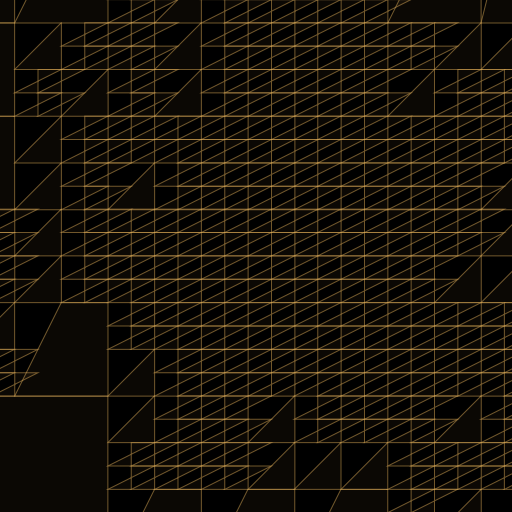
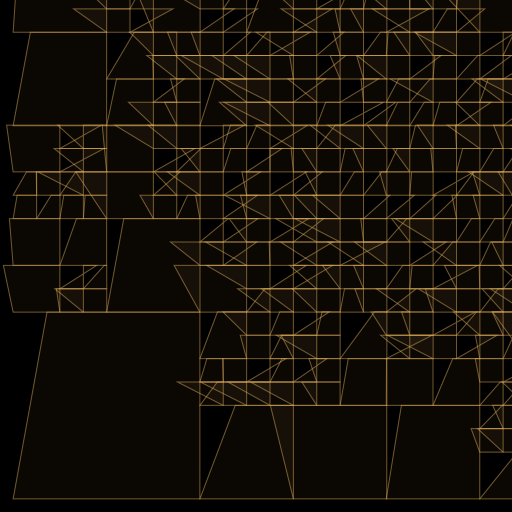
randomizing how much we perturb

diff --git a/lib/perturb-street-grid.ts b/lib/perturb-street-grid.ts
@@ -18,14 +18,25 @@ function perturbStreetGrid(
             },
             shouldPerturbThreshold = 0;
 
+        function getScalingFactor() {
+            return pRNG() * 2 - 1;
+        }
+
         return traverse(featureCollection).map(function(node: any) {
             if (this.key === 'coordinates' && this.parent.node.type === 'Polygon' && pRNG() > shouldPerturbThreshold) {
                 logger.warn({
                     node: node
                 }, 'Perturbing node');
-                const coordsClone = <number[][][]> _.cloneDeep(node);
-                coordsClone[0][1][0] += perturbAmount.lat;
-                coordsClone[0][1][1] += perturbAmount.long;
+
+                const scaledPerturbAmounts = _.mapValues(
+                        perturbAmount,
+                        (amount: number) => amount * getScalingFactor()
+                    ),
+                    coordsClone = <number[][][]> _.cloneDeep(node);
+
+                coordsClone[0][1][0] += scaledPerturbAmounts.lat;
+                coordsClone[0][1][1] += scaledPerturbAmounts.long;
+
                 this.update(coordsClone);
             } else {
                 logger.debug({
